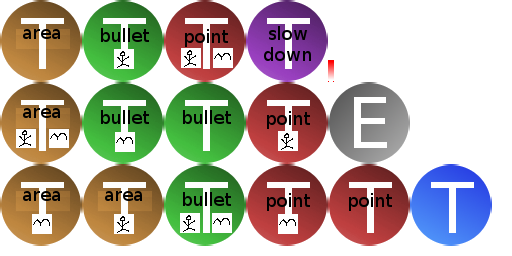
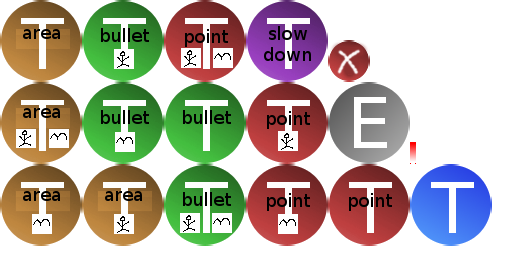
GUI do ulepszeń wieżyczek - na razie można zaznaczyć wieżyczkę i pojawi się menu z ulepszeniami (chwilowo testowe ikonki).

Changed region(s): [[0.625, 0.1562, 0.75, 0.3438], [0.7812, 0.5625, 0.8125, 0.625]]

diff --git a/towerdef/src/pl/czyzycki/towerdef/gameplay/GameplayScreen.java b/towerdef/src/pl/czyzycki/towerdef/gameplay/GameplayScreen.java
@@ -83,6 +83,7 @@ public class GameplayScreen implements Screen {
 	GameplayDebug debug;
 	GameplayGUI gui;
 	GameplayLoader loader;
+	GameplayUpgradeGUI upgradeGui;
 	
 	@SuppressWarnings("unchecked")
 	public GameplayScreen(TowerDef game) {
@@ -122,6 +123,8 @@ public class GameplayScreen implements Screen {
 		gui = new GameplayGUI(this);
 		gui.loadTowerIcons(texAtlas);
 		loader = new GameplayLoader(this);
+		upgradeGui = new GameplayUpgradeGUI(this);
+		upgradeGui.load(texAtlas);
 		inputMultiplexer = new InputMultiplexer(new GestureDetector(gui.listener), new GameplayGestureDetector(this));
 		
 		loadMap((String)jsonData.get("map"));
@@ -156,6 +159,14 @@ public class GameplayScreen implements Screen {
 			buildingChecker.set(x, y, true);
 			return true;
 		} else return false;
+	}
+	
+	Tower getTower(float x, float y) {
+		for(Tower tower: towers) {
+			if(tower.collision(x, y))
+				return tower;
+		}
+		return null;
 	}
 	
 	public void update(float dt) {
@@ -255,6 +266,7 @@ public class GameplayScreen implements Screen {
 		for(Enemy enemy : airborneEnemies) {
 			enemy.draw(batch);
 		}
+		upgradeGui.render(dt);
 		batch.end();
 		debug.render();
 		gui.render(dt);

diff --git a/towerdef/src/pl/czyzycki/towerdef/gameplay/GameplayGestureListener.java b/towerdef/src/pl/czyzycki/towerdef/gameplay/GameplayGestureListener.java
@@ -1,5 +1,7 @@
 package pl.czyzycki.towerdef.gameplay;
 
+import pl.czyzycki.towerdef.gameplay.entities.Tower;
+
 import com.badlogic.gdx.Gdx;
 import com.badlogic.gdx.Input;
 import com.badlogic.gdx.input.GestureDetector.GestureAdapter;
@@ -32,7 +34,17 @@ class GameplayGestureListener extends GestureAdapter {
 	public boolean tap (int x, int y, int count) {
 		Vector3 worldCord = new Vector3(x,y,0f);
 		screen.camera.unproject(worldCord);
-		screen.addTower(worldCord.x, worldCord.y);
+		if(screen.upgradeGui.tap(worldCord.x, worldCord.y)) {
+			
+		} else {
+			Tower selectedTower = screen.getTower(worldCord.x, worldCord.y);
+			if(selectedTower != null) {
+				screen.upgradeGui.setSelectedTower(selectedTower);
+			} else {
+				screen.upgradeGui.hide();
+				screen.addTower(worldCord.x, worldCord.y);
+			}
+		}
 		return true;
 	}
 
